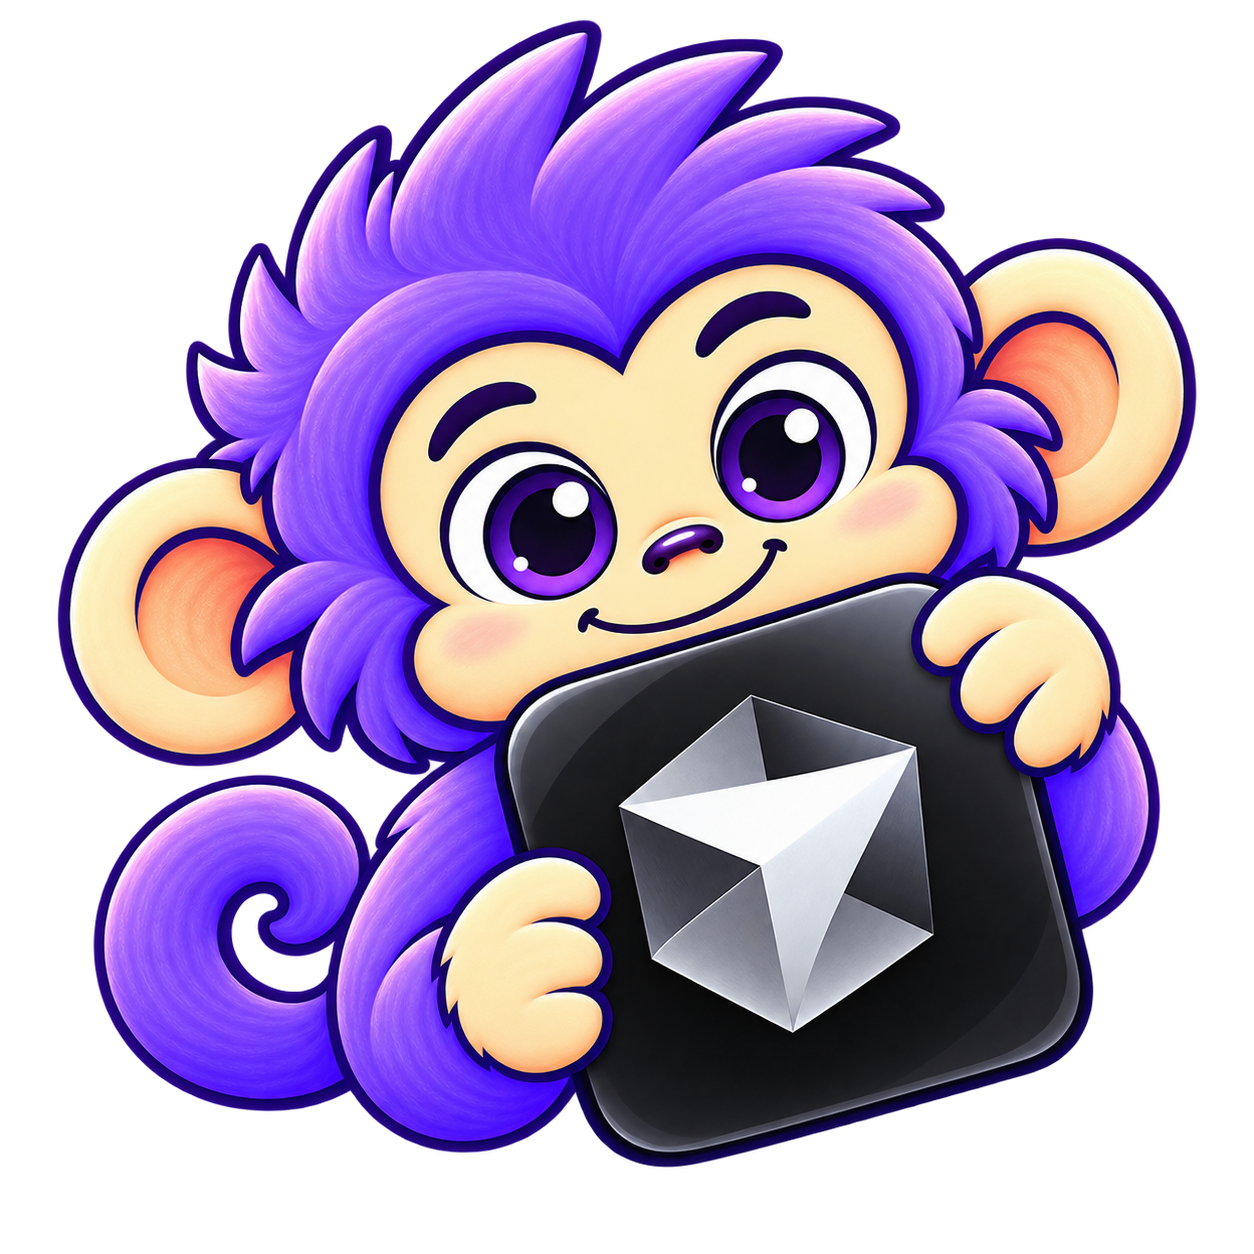
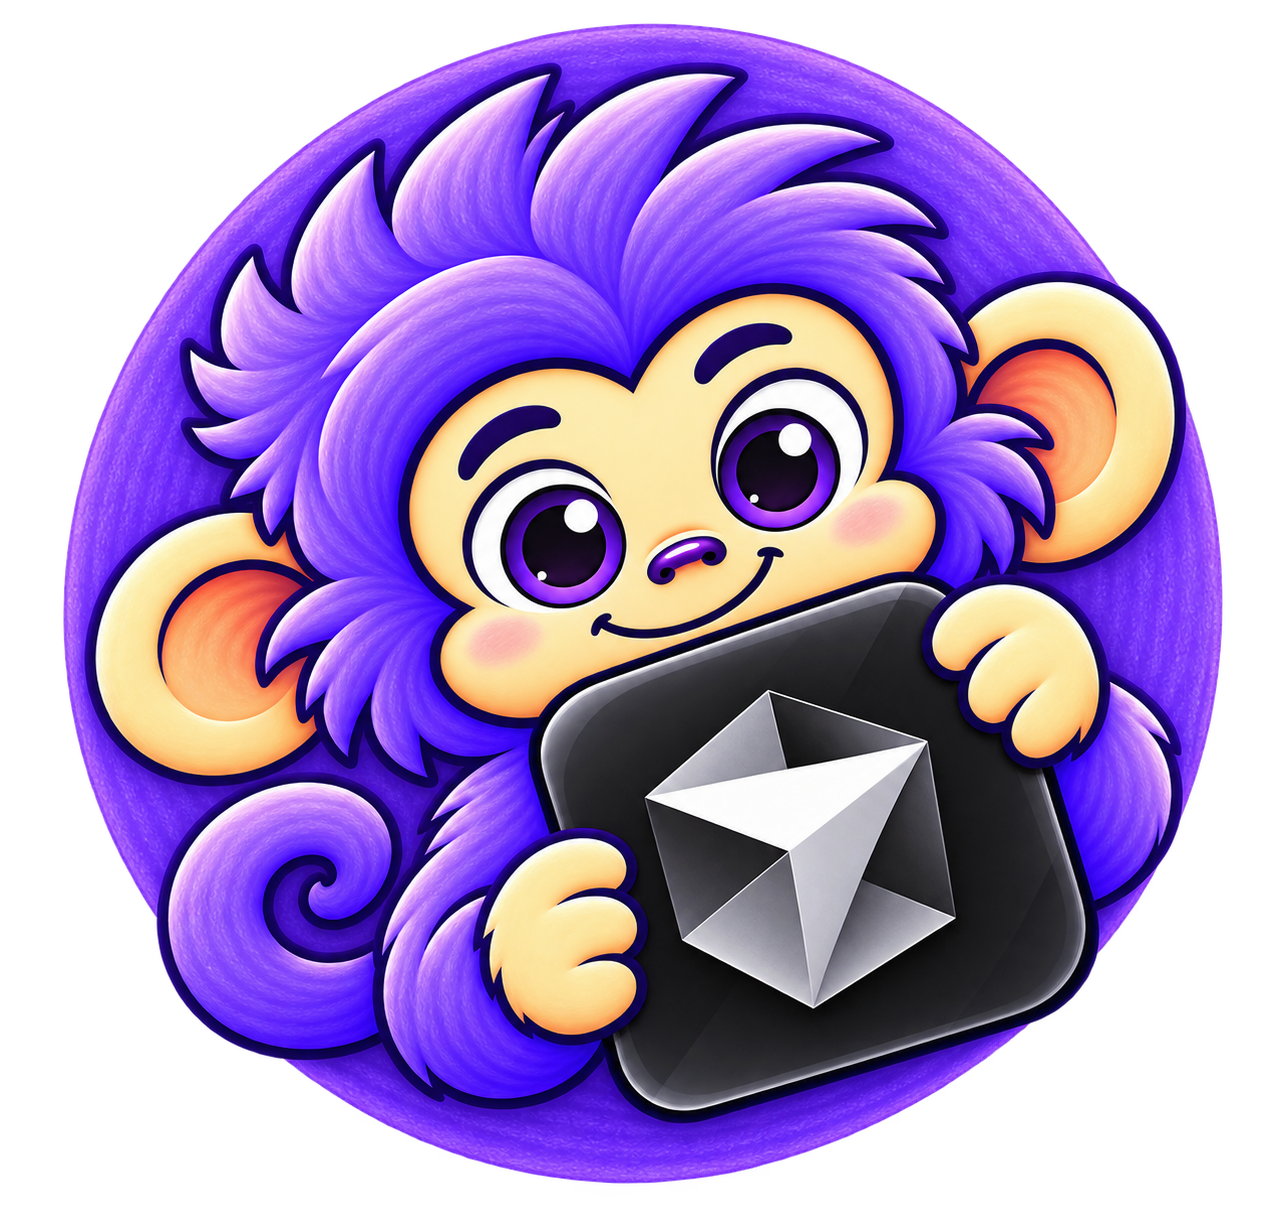
feat: update descriptions to refer to editor extensions and add new extension image

diff --git a/app/(landing)/_components/solution.tsx b/app/(landing)/_components/solution.tsx
@@ -5,7 +5,10 @@ import { motion } from "framer-motion";
 
 export function SolutionSection() {
   return (
-    <section id="how-it-works" className="scroll-mt-14 py-28 lg:py-40 bg-neutral-50">
+    <section
+      id="how-it-works"
+      className="scroll-mt-14 py-28 lg:py-40 bg-neutral-50"
+    >
       <div className="max-w-6xl mx-auto px-6 lg:px-8">
         {/* Section header - Apple style */}
         <motion.div
@@ -30,8 +33,8 @@ export function SolutionSection() {
             className="min-w-0"
           >
             <Image
-              src="/loggy/loggy-vscode.png"
-              alt="Loggy the mascot hugging the VS Code logo"
+              src="/loggy/loggy-extension.png"
+              alt="Loggy the mascot hugging an extensions icon"
               width={88}
               height={88}
               className="mb-6"
@@ -42,8 +45,8 @@ export function SolutionSection() {
               <span className="text-neutral-400">Forget it exists.</span>
             </h3>
             <p className="text-lg text-neutral-500 leading-relaxed">
-              The extension runs silently in the background. It tracks
-              file changes, detects when you step away, and syncs automatically.
+              The extension runs silently in the background. It tracks file
+              changes, detects when you step away, and syncs automatically.
             </p>
             <p className="text-lg text-neutral-900 font-medium leading-relaxed mt-4">
               Tracks your AI pair-programmer too — Claude Code&apos;s changes
@@ -165,12 +168,7 @@ function ExtensionMockup() {
       <div className="flex">
         <div className="w-40 sm:w-56 shrink-0 bg-[#252526] border-r border-[#1e1e1e] p-4">
           <div className="flex items-center gap-2 mb-4">
-            <Image
-              src="/loggy/loggy-head.png"
-              alt=""
-              width={20}
-              height={21}
-            />
+            <Image src="/loggy/loggy-head.png" alt="" width={20} height={21} />
             <span className="text-sm text-white font-medium">WriteLogs</span>
           </div>
 
@@ -239,7 +237,9 @@ function DashboardMockup() {
             <h4 className="font-medium text-neutral-900">
               Implemented auth and pagination fixes
             </h4>
-            <p className="text-sm text-neutral-500">Today · 42 logs · 2 tasks</p>
+            <p className="text-sm text-neutral-500">
+              Today · 42 logs · 2 tasks
+            </p>
           </div>
           <div className="bg-neutral-900 text-white text-xs font-medium px-3.5 py-2 rounded-lg whitespace-nowrap">
             Copy as standup

diff --git a/app/(dashboard)/dashboard/[id]/_components/keys-tab.tsx b/app/(dashboard)/dashboard/[id]/_components/keys-tab.tsx
@@ -93,7 +93,7 @@ export function KeysTab({ projectId }: { projectId: string }) {
       {data.data.length === 0 ? (
         <EmptyState
           title="No keys yet"
-          description="Create a key and paste it into the WriteLogs VS Code extension — that's how your coding activity reaches this project."
+          description="Create a key and paste it into the WriteLogs editor extension — that's how your coding activity reaches this project."
         >
           <NewKeyDialog projectId={projectId}>
             <Button>Create your first key</Button>
@@ -104,7 +104,7 @@ export function KeysTab({ projectId }: { projectId: string }) {
           {liveKeys.length === 0 && (
             <EmptyState
               title="No active keys"
-              description="Every key for this project has been revoked, so nothing is syncing. Create a new key to reconnect VS Code."
+              description="Every key for this project has been revoked, so nothing is syncing. Create a new key to reconnect your editor."
             >
               <NewKeyDialog projectId={projectId}>
                 <Button>New key</Button>
@@ -211,7 +211,7 @@ export function KeysTab({ projectId }: { projectId: string }) {
             <DialogDescription>
               You&apos;ll get a fresh token for the same key — shown once. The
               current token stops working immediately, so re-paste the new one
-              into VS Code.
+              into your editor.
             </DialogDescription>
           </DialogHeader>
           <DialogFooter>
@@ -237,7 +237,7 @@ export function KeysTab({ projectId }: { projectId: string }) {
             <DialogTitle>Your new token</DialogTitle>
             <DialogDescription>
               This is shown once — copy it now and paste it into the WriteLogs
-              VS Code extension.
+              extension in your editor.
             </DialogDescription>
           </DialogHeader>
           <div className="rounded-md border bg-muted/40 p-3 font-mono text-xs break-all select-all">
@@ -271,7 +271,7 @@ export function KeysTab({ projectId }: { projectId: string }) {
               Revoke {keyToRevoke ? keyLabel(keyToRevoke) : "this key"}?
             </DialogTitle>
             <DialogDescription>
-              VS Code extensions using this key will stop syncing.
+              Editors using this key will stop syncing.
             </DialogDescription>
           </DialogHeader>
           <DialogFooter>

diff --git a/app/(dashboard)/dashboard/[id]/_components/new-key-dialog.tsx b/app/(dashboard)/dashboard/[id]/_components/new-key-dialog.tsx
@@ -17,16 +17,15 @@ import { Form } from "@/components/ui/form";
 import { Button } from "@/components/ui/button";
 import ControlledInput from "@/components/molecules/controlled-input";
 import { copyText } from "@/lib/utils";
-import { EXTENSION_MARKETPLACE_URL } from "@/lib/config";
 import type { CreatedPatKey } from "@/lib/types";
 import { useCreateKey } from "../_hooks/use-keys-mutations";
 
 const SETUP_STEPS = [
   {
     title: "Install the extension",
-    detail: "Grab WriteLogs from the VS Code Marketplace.",
-    href: EXTENSION_MARKETPLACE_URL,
-    linkLabel: "Open Marketplace →",
+    detail: "Get WriteLogs for VS Code, Cursor, Antigravity, and more.",
+    href: "/dashboard/extension",
+    linkLabel: "Choose your editor →",
   },
   {
     title: "Open the WriteLogs sidebar",
@@ -72,9 +71,11 @@ export function NewKeyDialog({
     const ok = await copyText(createdKey.token);
     if (ok) {
       setCopied(true);
-      toast.success("Key copied — paste it into VS Code.");
+      toast.success("Key copied — paste it into your editor.");
     } else {
-      toast.error("Couldn't access the clipboard. Select the key and copy it manually.");
+      toast.error(
+        "Couldn't access the clipboard. Select the key and copy it manually.",
+      );
     }
   };
 
@@ -87,7 +88,7 @@ export function NewKeyDialog({
             <DialogHeader>
               <DialogTitle>New API key</DialogTitle>
               <DialogDescription>
-                The VS Code extension uses this key to log activity to this
+                The WriteLogs extension uses this key to log activity to this
                 project.
               </DialogDescription>
             </DialogHeader>
@@ -135,11 +136,11 @@ export function NewKeyDialog({
               <div className="pt-2">
                 <div className="flex items-center justify-between mb-3">
                   <p className="text-xs font-medium uppercase tracking-wide text-muted-foreground">
-                    Set up VS Code
+                    Set up your editor
                   </p>
                   <Image
-                    src="/loggy/loggy-vscode.png"
-                    alt="Loggy the mascot hugging the VS Code logo"
+                    src="/loggy/loggy-extension.png"
+                    alt="Loggy the mascot hugging an extensions icon"
                     width={56}
                     height={56}
                   />

diff --git a/app/(dashboard)/dashboard/_components/projects-view.tsx b/app/(dashboard)/dashboard/_components/projects-view.tsx
@@ -66,7 +66,7 @@ export function ProjectsView() {
         <EmptyState
           // Free gets exactly one project, so "first" would be a tease.
           title={maxProjects === 1 ? "Create your project" : "Create your first project"}
-          description="A project tracks one codebase. Create it, grab an API key, and the VS Code extension starts logging your work — summaries follow automatically."
+          description="A project tracks one codebase. Create it, grab an API key, and the editor extension starts logging your work — summaries follow automatically."
         >
           <CreateProjectDialog>
             <Button>Create a project</Button>

diff --git a/app/(dashboard)/dashboard/[id]/_components/summaries-tab.tsx b/app/(dashboard)/dashboard/[id]/_components/summaries-tab.tsx
@@ -207,7 +207,7 @@ export function SummariesTab({ projectId }: { projectId: string }) {
       generate.data?.generated === 0 ? (
         <EmptyState
           title="No activity captured yet today"
-          description="Once the VS Code extension logs some work you can build today's summary here — and tonight's automatic summary will pick up everything either way."
+          description="Once the editor extension logs some work you can build today's summary here — and tonight's automatic summary will pick up everything either way."
         >
           {updateControls}
         </EmptyState>

diff --git a/app/(dashboard)/dashboard/_components/create-project-dialog.tsx b/app/(dashboard)/dashboard/_components/create-project-dialog.tsx
@@ -35,7 +35,7 @@ export function CreateProjectDialog({
         <DialogHeader>
           <DialogTitle>New project</DialogTitle>
           <DialogDescription>
-            One project per codebase. You&apos;ll get an API key for the VS Code
+            One project per codebase. You&apos;ll get an API key for the editor
             extension next.
           </DialogDescription>
         </DialogHeader>
